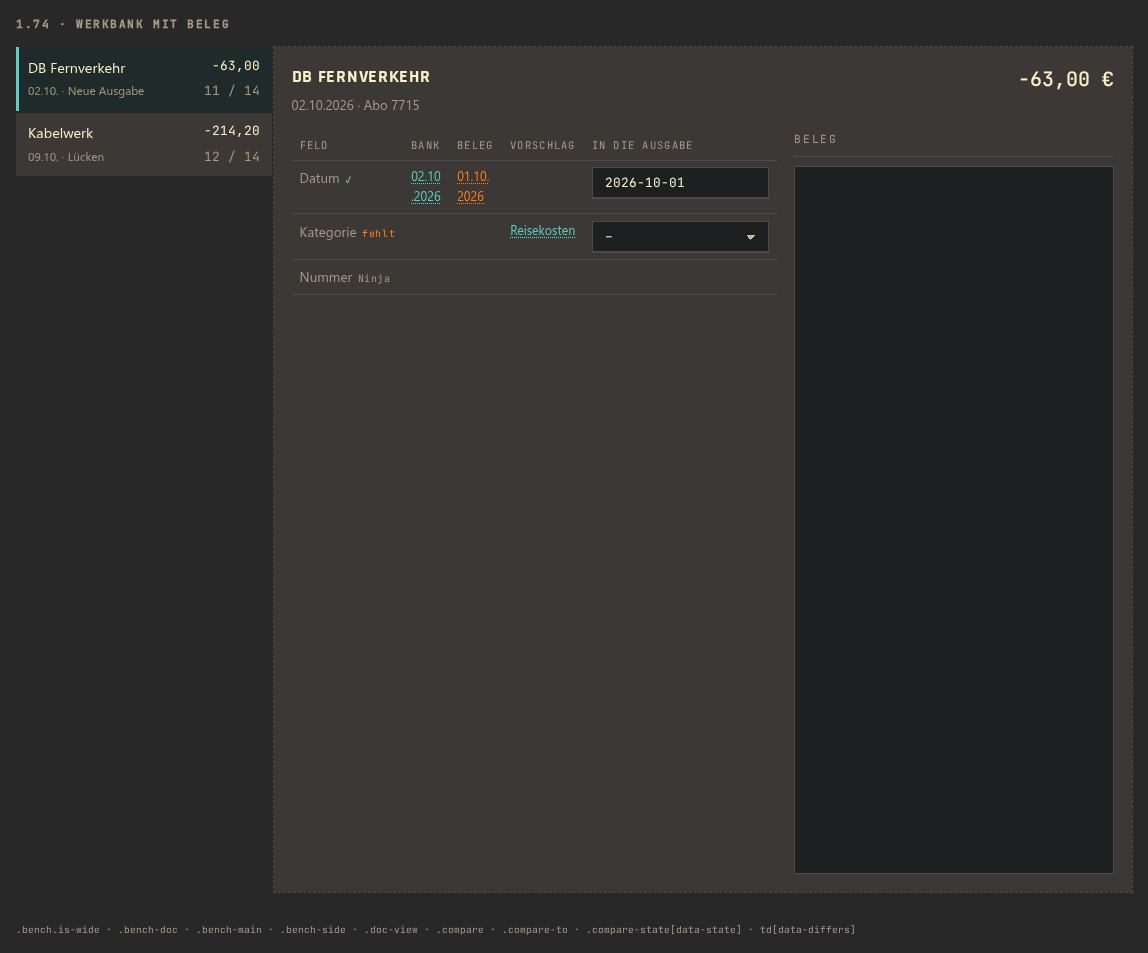
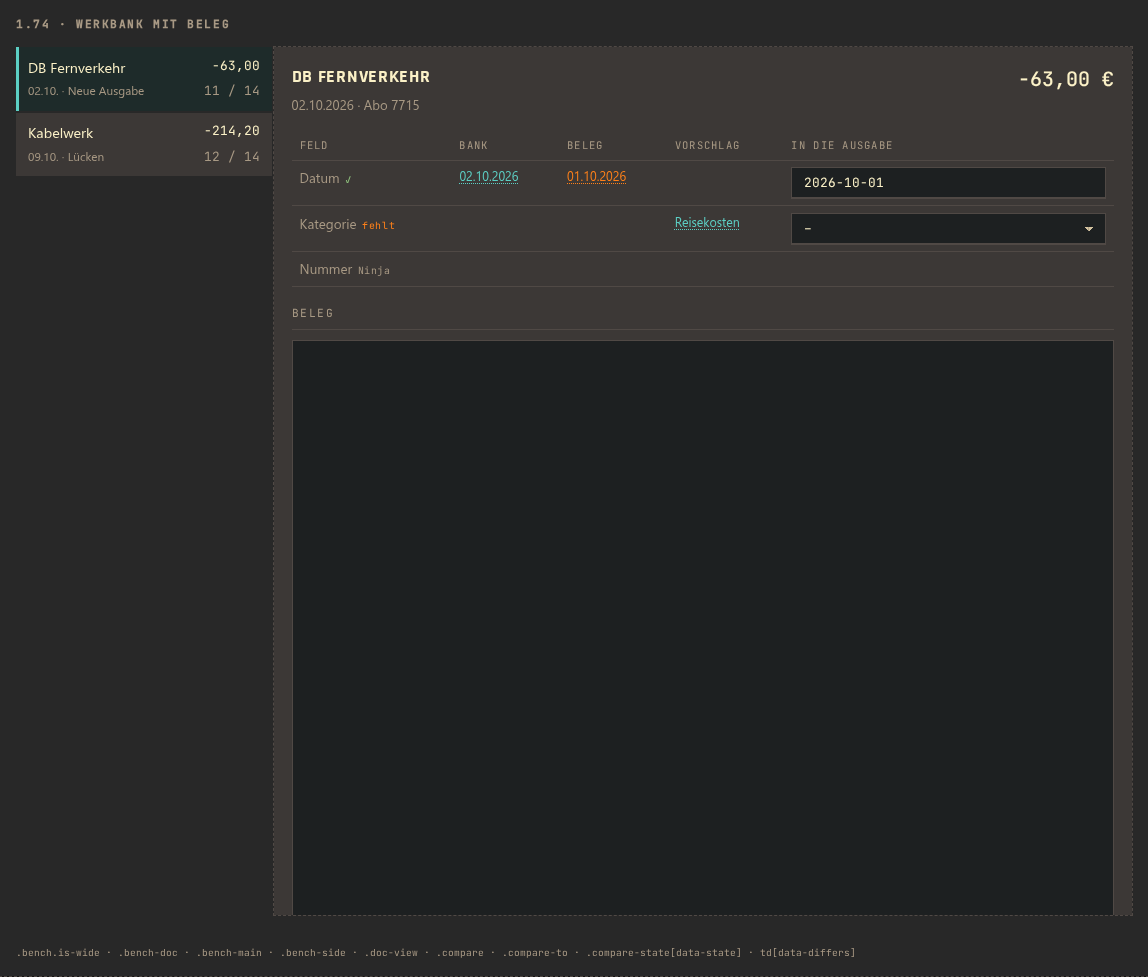
Fit the receipt bench on narrow screens
The wide list stayed in two columns on a phone, and the comparison ran
under the document, its fields out of reach. The bench stacks again,
and the fields scroll sideways before they sit under the document. A
taken value no longer looks like a warning, and dates stay whole.

diff --git a/css/components.css b/css/components.css
@@ -1181,22 +1181,22 @@ button.list-row{width:100%;border:0;border-bottom:1px solid var(--bg1);backgroun
    <div class="bench is-wide">…<section class="bench-desk"><div class="bench-doc"><div class="bench-main">…</div><aside class="bench-side"><iframe class="doc-view" src="…"></iframe></aside></div></section></div> */
 .bench.is-wide{grid-template-columns:minmax(13rem,16rem) minmax(0,1fr)}
 .bench-doc{display:grid;grid-template-columns:minmax(0,1fr) minmax(20rem,36%);gap:1.1rem;align-items:start}
-.bench-main{display:flex;flex-direction:column;gap:1rem;min-width:0}
+.bench-main{display:flex;flex-direction:column;gap:1rem;min-width:0;overflow-x:auto}
 .bench-side{position:sticky;top:0;display:flex;flex-direction:column;gap:.6rem;min-width:0}
 .doc-view{display:block;width:100%;height:calc(100dvh - 12rem);min-height:24rem;border:1px solid var(--bg2);background:var(--bg-hard);object-fit:contain}
 .compare{width:100%;border-collapse:collapse;font-size:.84rem}
 .compare th{padding:.35rem .5rem;border-bottom:1px solid var(--bg2);font-family:var(--font-mono);font-size:.66rem;font-weight:400;letter-spacing:.12em;text-transform:uppercase;text-align:left;color:var(--fg3)}
-.compare td{padding:.4rem .5rem;border-bottom:1px solid var(--bg2);vertical-align:top;color:var(--fg2);overflow-wrap:anywhere}
+.compare td{padding:.4rem .5rem;border-bottom:1px solid var(--bg2);vertical-align:top;color:var(--fg2);overflow-wrap:break-word}
 .compare td:first-child{color:var(--fg3);overflow-wrap:normal}
-.compare td.compare-to{min-width:12rem;color:var(--fg0)}
+.compare td.compare-to{min-width:10rem;color:var(--fg0)}
 .compare td.compare-to .input,.compare td.compare-to .select{width:100%;min-height:var(--h-s);padding-block:0;font-size:.8rem}
-.compare td[data-differs] .field-suggest-pick{color:var(--warn)}
+.compare td[data-differs] .field-suggest-pick:not([aria-pressed="true"],:hover){color:var(--warn)}
 .compare-state{margin-left:.35rem;font-family:var(--font-mono);font-size:.62rem;letter-spacing:.06em;white-space:nowrap}
 .compare-state[data-state="ok"]{color:var(--aqua)}
 .compare-state[data-state="missing"]{color:var(--warn)}
 .compare-state[data-state="auto"]{color:var(--fg3)}
-@container (max-width:44rem){.bench-doc{grid-template-columns:minmax(0,1fr)}.bench-side{position:static}}
-@media(max-width:60rem){.bench{grid-template-columns:minmax(0,1fr)}.bench-desk{position:static;max-height:none;overflow-y:visible}}
+@container (max-width:52rem){.bench-doc{grid-template-columns:minmax(0,1fr)}.bench-side{position:static}}
+@media(max-width:60rem){.bench,.bench.is-wide{grid-template-columns:minmax(0,1fr)}.bench-desk{position:static;max-height:none;overflow-y:visible}}
 /* Where a field's value came from, after its label: <span class="field-label">Category<span class="field-origin">last expense</span></span> */
 .field-origin{margin-left:.45rem;font-size:.62rem;letter-spacing:.04em;text-transform:none;color:var(--fg2)}
 .field-origin::before{content:"· "}

diff --git a/docs/v1/shrippen.css b/docs/v1/shrippen.css
@@ -1526,22 +1526,22 @@ button.list-row{width:100%;border:0;border-bottom:1px solid var(--bg1);backgroun
    <div class="bench is-wide">…<section class="bench-desk"><div class="bench-doc"><div class="bench-main">…</div><aside class="bench-side"><iframe class="doc-view" src="…"></iframe></aside></div></section></div> */
 .bench.is-wide{grid-template-columns:minmax(13rem,16rem) minmax(0,1fr)}
 .bench-doc{display:grid;grid-template-columns:minmax(0,1fr) minmax(20rem,36%);gap:1.1rem;align-items:start}
-.bench-main{display:flex;flex-direction:column;gap:1rem;min-width:0}
+.bench-main{display:flex;flex-direction:column;gap:1rem;min-width:0;overflow-x:auto}
 .bench-side{position:sticky;top:0;display:flex;flex-direction:column;gap:.6rem;min-width:0}
 .doc-view{display:block;width:100%;height:calc(100dvh - 12rem);min-height:24rem;border:1px solid var(--bg2);background:var(--bg-hard);object-fit:contain}
 .compare{width:100%;border-collapse:collapse;font-size:.84rem}
 .compare th{padding:.35rem .5rem;border-bottom:1px solid var(--bg2);font-family:var(--font-mono);font-size:.66rem;font-weight:400;letter-spacing:.12em;text-transform:uppercase;text-align:left;color:var(--fg3)}
-.compare td{padding:.4rem .5rem;border-bottom:1px solid var(--bg2);vertical-align:top;color:var(--fg2);overflow-wrap:anywhere}
+.compare td{padding:.4rem .5rem;border-bottom:1px solid var(--bg2);vertical-align:top;color:var(--fg2);overflow-wrap:break-word}
 .compare td:first-child{color:var(--fg3);overflow-wrap:normal}
-.compare td.compare-to{min-width:12rem;color:var(--fg0)}
+.compare td.compare-to{min-width:10rem;color:var(--fg0)}
 .compare td.compare-to .input,.compare td.compare-to .select{width:100%;min-height:var(--h-s);padding-block:0;font-size:.8rem}
-.compare td[data-differs] .field-suggest-pick{color:var(--warn)}
+.compare td[data-differs] .field-suggest-pick:not([aria-pressed="true"],:hover){color:var(--warn)}
 .compare-state{margin-left:.35rem;font-family:var(--font-mono);font-size:.62rem;letter-spacing:.06em;white-space:nowrap}
 .compare-state[data-state="ok"]{color:var(--aqua)}
 .compare-state[data-state="missing"]{color:var(--warn)}
 .compare-state[data-state="auto"]{color:var(--fg3)}
-@container (max-width:44rem){.bench-doc{grid-template-columns:minmax(0,1fr)}.bench-side{position:static}}
-@media(max-width:60rem){.bench{grid-template-columns:minmax(0,1fr)}.bench-desk{position:static;max-height:none;overflow-y:visible}}
+@container (max-width:52rem){.bench-doc{grid-template-columns:minmax(0,1fr)}.bench-side{position:static}}
+@media(max-width:60rem){.bench,.bench.is-wide{grid-template-columns:minmax(0,1fr)}.bench-desk{position:static;max-height:none;overflow-y:visible}}
 /* Where a field's value came from, after its label: <span class="field-label">Category<span class="field-origin">last expense</span></span> */
 .field-origin{margin-left:.45rem;font-size:.62rem;letter-spacing:.04em;text-transform:none;color:var(--fg2)}
 .field-origin::before{content:"· "}

diff --git a/README.md b/README.md
@@ -788,6 +788,18 @@ The keyboard view for Kontra's bass over MIDI (persona P5 Aylin, a keyboarder wh
 | Keyboard | – | `KanteKeyboard`: keys `low`..`high`; `noteNames`, `middleCOctave`; `keyNames` CKeys (default: "C2" on every C), WhiteKeys, None; `markers` [{midi, role, label, cents}] with a shape per role as on `KanteFretboard` (`current` filled square and the key tinted, `next` hollow square, `root` diamond, `scale` round dot; `label` inside) and the note states `hit`, `wrong`, `missed`, `early`, `late`, `offpitch` as `KanteNoteMark` signs (offpitch with its cents); markers outside the range are left out. White keys in the lighter of ground and text colour, black keys in the darker, so it reads as a piano in dark and light. `interactive` (default false, a display like the other instrument components): Tab focus, Left / Right, Home / End move a cyan focus ring (`focusKey`), Enter / Space or a click fire `activated(midi)`. Screen readers hear the markers ("Aktuell: D2; Nächste: E2"; `roleNames`, `markerText`) |
 | Key lane | – | `KanteKeyLane`: falling notes over the keys, `KanteTabLane`'s twin for keys: `notes` [{time, duration, midi, state, label, cents}] (the tab lane's notes with `midi` instead of string and fret), `position`, `pixelsPerSecond`, `playLine` (0..1 from the bottom, default 0.2 as the lane), `bars` (with `number`), `loopStart` / `loopEnd`, `marks` Full / Quiet / Off, `showCents`, `setNoteState(index, state[, cents])`, `resetStates()`, `stateOf(i)`, `centsOf(i)`, `stateRevision`, `nextIndex`. Same width, `low` and `high` as a `KanteKeyboard` below it: its columns stand over the keys. A note is a block in its key's column with a square head at its onset (key name or `label` on it, `names`), pending in `noteColor` (info), states by sign as on the lane. Black key columns tinted, a line at every C. Same speed design as the lane: one moving strip, note visuals made asynchronously near the view; signs only while their head is in view (the software renderer does not clip a Shape) |
 
+### Added in Kante 1.74
+
+A workbench that keeps the receipt in view (Andon: the VAT bench, where each open bank line becomes a finished expense). The fields stand beside the document, and each field shows what its sources say.
+
+| Element | CSS | Note |
+|---------|-----|------|
+| Wide bench | `.bench.is-wide` | A narrower list, for a desk with a document |
+| Desk with a document | `.bench-doc` > `.bench-main` + `.bench-side` | Fields left, document right; the side stays in view while the fields scroll. Stacks in a desk under 52rem; below that the fields scroll sideways rather than sit under the document |
+| Document | `.doc-view` | An `iframe` or `img` filling the side; also an empty placeholder |
+| Comparison | `table.compare`, `td.compare-to` | One row per field: its sources, then the value it will hold. A value in a source cell is a `.field-suggest-pick` in a `.field-suggest[data-suggest-for]`, so a click takes it |
+| State of a row | `.compare-state[data-state="ok\|missing\|auto"]`, `td[data-differs]` | Set, missing, or set by the service; a source that differs from the others is marked |
+
 ### Added in Kante 1.73
 
 Everything sits where it should: buttons centred, icons in their colour on every platform, placeholders inside the field. Found in Mitori, under the Material controls.
@@ -1403,15 +1415,3 @@ https://img.shields.io/badge/<label>-<value>-<valueColor>?labelColor=1c1c20
 ## License
 
 MIT, see [LICENSE](LICENSE). Exceptions: `kimai/knust` and `kimai/kit` are GPL-3.0-or-later, the fonts are under the SIL Open Font License 1.1.
-
-### Added in Kante 1.74
-
-A workbench that keeps the receipt in view (Andon: the VAT bench, where each open bank line becomes a finished expense). The fields stand beside the document, and each field shows what its sources say.
-
-| Element | CSS | Note |
-|---------|-----|------|
-| Wide bench | `.bench.is-wide` | A narrower list, for a desk with a document |
-| Desk with a document | `.bench-doc` > `.bench-main` + `.bench-side` | Fields left, document right; the side stays in view while the fields scroll. Stacks in a narrow desk |
-| Document | `.doc-view` | An `iframe` or `img` filling the side; also an empty placeholder |
-| Comparison | `table.compare`, `td.compare-to` | One row per field: its sources, then the value it will hold. A value in a source cell is a `.field-suggest-pick` in a `.field-suggest[data-suggest-for]`, so a click takes it |
-| State of a row | `.compare-state[data-state="ok\|missing\|auto"]`, `td[data-differs]` | Set, missing, or set by the service; a source that differs from the others is marked |
